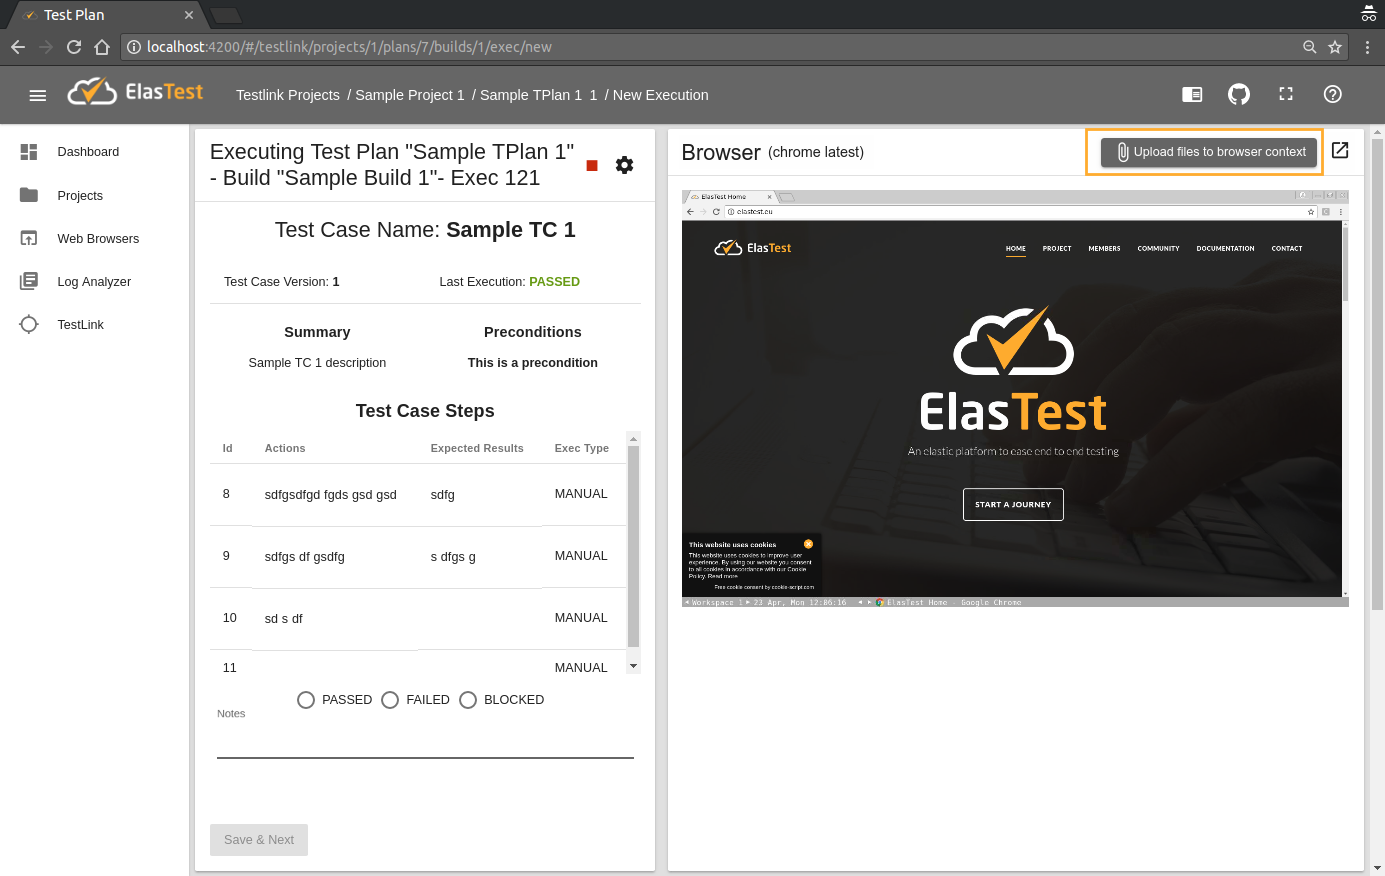
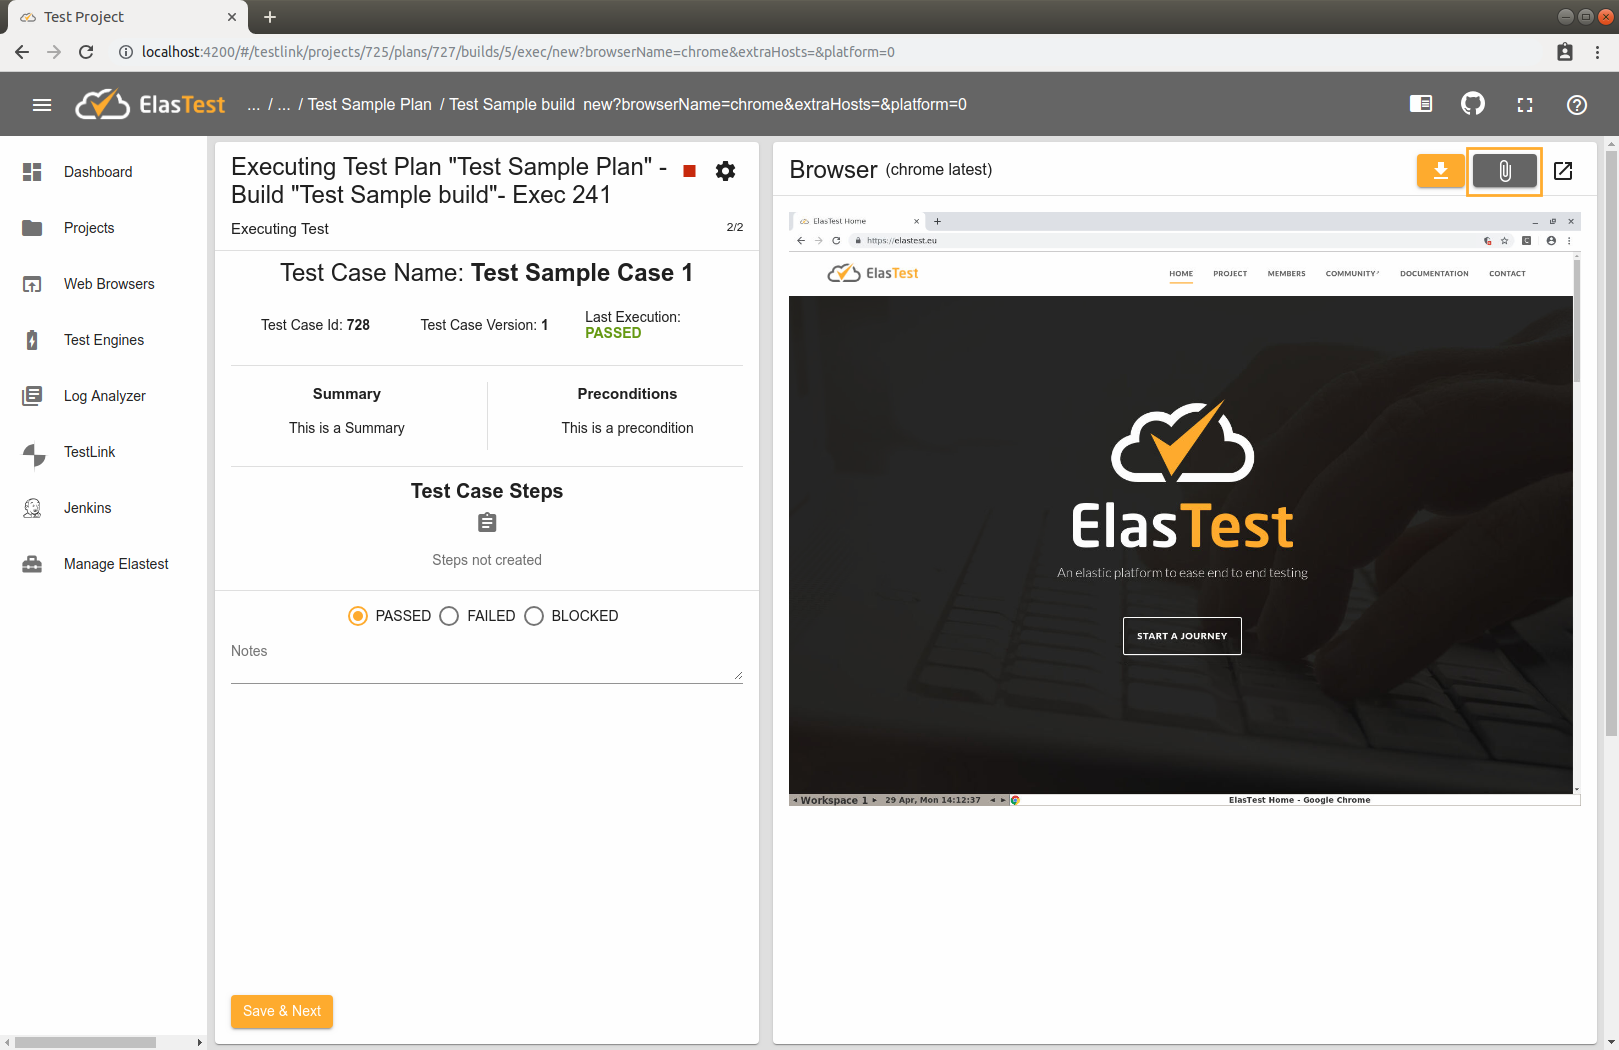
1.5.0 version

diff --git a/docs/releases/index.md b/docs/releases/index.md
@@ -4,6 +4,27 @@
 </div>
 </div>
 
+<!-- ************************* -->
+<!-- ********* 1.5.0 ********* -->
+<!-- ************************* -->
+
+<h3 id="1.5.0" class="small-subtitle">1.5.0</h3>
+<h4 class="smaller-subtitle">29/04/2019</h4>
+
+<h5 class="smaller-subtitle">Features & Improvements</h5>
+
+-   Added a button to **`download files`** from the browser context during a <a target="_blank" href="/docs/testlink">TestLink</a> Test Plan Execution.
+-   Now you can select one or more <a target="_blank" href="/docs/testing/sut">Suts</a> and **`delete them all at once`**.
+-   It is now possible to **`activate/deactivate the All-In-One chart`** from the **Monitoring Configuration** modal window.
+-   Now when configuring in a <a target="_blank" href="/docs/jenkins">Jenkins</a> job the **maximum number of builds to keep**, this number will be synchronized with the **`maximum number of executions in ElasTest`**.
+
+<h5 class="smaller-subtitle">Bug Fixes</h5>
+
+-   Now, in <a target="_blank" href="/docs/jenkins">ElasTest Jenkins Plugin</a>, the **log traces** are sent to ElasTest with the **`timestamp`**, thus solving the problem of incorrect dates.
+-   Fixed a bug on the page of a <a target="_blank" href="/docs/testlink">TestLink</a> **Test Case Execution** that brokes the GUI.
+-   Now when a **test suite** has all its tests skipped, the **`suite is also shown as skipped`** and not as success.
+-   Fixed a bug in the modal window of an execution of a **TJob with parameters** that, when removing all parameters, the **`button to add more parameters disappeared`**.
+-   Fixed a bug in <a target="_blank" href="/docs/#modes">singlenode mode</a>: The **Delete red indices** button was **`always disabled`** and could not be pressed even if there were red indices.
 
 <!-- ************************* -->
 <!-- ********* 1.4.1 ********* -->
@@ -29,7 +50,7 @@
 -   <a target="_blank" href="/docs/web-browsers/e2e-browser">Browsers started by a TJob</a> run now have a **fixed name**, allowing you to compare browser logs between different **executions**.
 -   It is now possible to <strong class="italicEtColor">upload files</strong> to a **browser** and also <strong class="italicEtColor">download</strong> them.
 -   A button has been added to **`upload files to the browser context`** on the <a target="_blank" href="/docs/testlink">TestLink</a> Test Plan **execution** page.
--   It is possible to **attach evidence files** to the executions by means of an api that the TJob receives in an <a target="_blank" href="/docs/testing/environment-variables/">environment variable</a> (*ET_ETM_TJOB_ATTACHMENT_API*).
+-   It is possible to **attach evidence files** to the executions by means of an api that the TJob receives in an <a target="_blank" href="/docs/testing/environment-variables/">environment variable</a> (_ET_ETM_TJOB_ATTACHMENT_API_).
 -   The **`View in loganalyzer`** button has been added to the section of a **specific Test Case**.
 
 <h5 class="smaller-subtitle">Bug Fixes</h5>
@@ -72,7 +93,7 @@
         -   The **`spinner`** is **not shown** when **new information** is obtained.
         -   Now the **executions** loaded at the beginning are **`not reloaded again`**.
     -   Now in the section of a <strong class="italicEtColor">specific TJob</strong> the **`executions are paginated`**.
--   A **new section** has been added: **`Manage Elastest`**. Here you can view the status, the general info and the logs of the containers of the core components of ElasTest, as well as the version that is being used. In <a target="_blank" href="/docs/#modes">singlenode mode</a> you can also manage Elasticsearch indices
+-   A **new section** has been added: **`Manage Elastest`**. Here you can view the status, the general info and the logs of the <a target="_blank" href="/docs/manage-elastest/monitoring-containers">containers</a> of the core components of ElasTest, as well as the version that is being used. In <a target="_blank" href="/docs/#modes">singlenode mode</a> you can also <a target="_blank" href="/docs/manage-elastest/manage-elasticsearch">manage Elasticsearch indices</a>
 -   For <a target="_blank" href="/docs/testing/sut/#outsideExternalES">Sut with external Elasticsearch</a>, the user is now allowed to indicate a **`list of fields`** with a **list of values** by which to **filter** to save the traces.
 -   <a target="_blank" href="/docs/monitoring">Monitoring traces</a> are now removed when deleting a **TJobExecution, TJob, Sut, SutExecution or Project** (the entire index in Elasticsearch for <a target="_blank" href="/docs/#modes">singlenode mode</a> OR the data in Mysql for <a target="_blank" href="/docs/#modes">mini mode</a>)
 -   **Elasticsearch** has been updated to version <a target="_blank" href="https://www.elastic.co/guide/en/elasticsearch/reference/current/release-notes-6.6.1.html">6.6.1</a> (for <a target="_blank" href="/docs/#modes">singlenode mode</a>)

diff --git a/docs/testlink/index.md b/docs/testlink/index.md
@@ -70,12 +70,12 @@ On the other hand, you can run the test plan clicking the "Execute Test Plan" bu
 -   **Select Browser and it's version**.
 -   **Select a Platform**.
 -   **Configure a hosts list** to put them in the browser container **/etc/hosts**.
-<p></p>
-<div class="docs-gallery inline-block">
-    <a data-fancybox="gallery-4" href="/docs/testlink/images/execute_plan_modal.png"><img class="img-responsive img-wellcome" src="/docs/testlink/images/execute_plan_modal.png"/></a>
-</div>
+    <p></p>
+    <div class="docs-gallery inline-block">
+        <a data-fancybox="gallery-4" href="/docs/testlink/images/execute_plan_modal.png"><img class="img-responsive img-wellcome" src="/docs/testlink/images/execute_plan_modal.png"/></a>
+    </div>
 
-Once the configuration has been selected and the *Run test plan button* has been pressed, you must wait a few seconds until the browser loads. After that, you can see the Test Plan information on the left and a web browser on the right. On the bottom, you will can see all the logs of your test.
+Once the configuration has been selected and the _Run test plan button_ has been pressed, you must wait a few seconds until the browser loads. After that, you can see the Test Plan information on the left and a web browser on the right. On the bottom, you will can see all the logs of your test.
 
 <div class="docs-gallery inline-block">
     <a data-fancybox="gallery-4" href="/docs/testlink/images/testplan_execute.png"><img class="img-responsive img-wellcome" src="/docs/testlink/images/testplan_execute.png"/></a>
@@ -83,13 +83,27 @@ Once the configuration has been selected and the *Run test plan button* has been
 
 If you have **`associated a Sut`** to the Test Plan, you must wait until the Sut is ready to be used, then the browser will start as indicated in the previous paragraph and the url of the Sut will be loaded in that browser to test.
 
-If you need to **`attach files`** you have on your machine to your browser, you can add them to the browser context by using the **Upload files to browser context** button. You can select more than one file at a time. Once uploaded to the browser context, you can find them in */home/ubuntu/et_shared_files*.
+If you need to **`attach files`** you have on your machine to your browser, you can add them to the browser context by using the **Upload files to browser context** button. You can select more than one file at a time. Once uploaded to the browser context, you can find them in _/home/ubuntu/et_shared_files_.
 
 <div class="docs-gallery inline-block">
     <a data-fancybox="gallery-4" href="/docs/testlink/images/testplan_execute_uploadfile.png"><img class="img-responsive img-wellcome" src="/docs/testlink/images/testplan_execute_uploadfile.png"/></a>
 </div>
 
-When your test is finished, you must fill the fields for each Test Case and click **Save & Next** button.
+It is also possible to **`obtain a file`** from the context of the browser, making use of the **Download file from browser context** button.
+
+<div class="docs-gallery inline-block">
+    <a data-fancybox="gallery-4" href="/docs/testlink/images/download_file_btn.png"><img class="img-responsive img-wellcome" src="/docs/testlink/images/download_file_btn.png"/></a>
+</div>
+
+Clicking will open a **modal window** where we can enter the **`full path`** where the file is within the context of the browser:
+
+<div class="docs-gallery inline-block">
+    <a data-fancybox="gallery-4" href="/docs/testlink/images/download_file_path.png"><img class="img-responsive img-wellcome" src="/docs/testlink/images/download_file_path.png"/></a>
+</div>
+
+Once the route has been entered, just click on the DOWNLOAD button and the file will be downloaded. 
+
+To run Test Cases, you must fill the fields for each and click Save & Next button.
 
 <h5 class="small-subtitle">TestLink Test Plan Execution Result</h5>
 

diff --git a/docs/elastest-monitoring/index.md b/docs/elastest-monitoring/index.md
@@ -11,7 +11,6 @@ ElasTest is able to monitor the health of various of its components. Monitoring 
 -   **Resource usage**: Monitors CPU, memory and other component metrics.
 -   **Component containers**: Monitors docker status and logs.
 
-
 <h3 class="holder-subtitle link-top">Resources usage</h3>
 
 ElasTest is able to monitor the health of various of its componets and allows correlated queries aiding the fault location within the platform in an optimized manner.
@@ -42,32 +41,4 @@ Moreover, if we hover over the plots, we use the mouse pointer to observe the va
 
 <h3 class="holder-subtitle link-top" id="componentContainers">Component containers</h3>
 
-ElasTest also provides in its GUI a section to visualize the **`status`**, the **`general info`** and the **`logs`** of the containers of the **core components** of ElasTest, as well as the version that is being used. You can access this section by clicking on the button with interrogation icon (?) or from the **Manage Elastest** section:
-
-<div class="docs-gallery inline-block">
-    <a data-fancybox="gallery-1" href="/docs/elastest-monitoring/images/help_button.png"><img class="img-responsive img-wellcome" src="/docs/elastest-monitoring/images/help_button.png"/></a>
-</div>
-
-This section looks like this:
-
-<div class="docs-gallery inline-block">
-    <a data-fancybox="gallery-1" href="/docs/elastest-monitoring/images/help_page.png"><img class="img-responsive img-wellcome" src="/docs/elastest-monitoring/images/help_page.png"/></a>
-</div>
-
-It has two buttons on the top right: the first to manually refresh the information and the second to activate or deactivate the autorefresh of this information.
-
-<div class="docs-gallery inline-block">
-    <a data-fancybox="gallery-1" href="/docs/elastest-monitoring/images/help_page_upper_buttons.png"><img class="img-responsive img-wellcome" src="/docs/elastest-monitoring/images/help_page_upper_buttons.png"/></a>
-</div>
-
-If you click on the "view logs" button, the last logs of that container will be loaded at the bottom of the page:
-
-<div class="docs-gallery inline-block">
-    <a data-fancybox="gallery-1" href="/docs/elastest-monitoring/images/help_page_etm_logs.png"><img class="img-responsive img-wellcome" src="/docs/elastest-monitoring/images/help_page_etm_logs.png"/></a>
-</div>
-
-Clicking on the "load previous" button will load all the logs of that container:
-
-<div class="docs-gallery inline-block">
-    <a data-fancybox="gallery-1" href="/docs/elastest-monitoring/images/help_page_etm_logs_load_more.png"><img class="img-responsive img-wellcome" src="/docs/elastest-monitoring/images/help_page_etm_logs_load_more.png"/></a>
-</div>
+View <a href="/docs/manage-elastest/monitoring-containers/"> Monitoring Containers </a> section (into Manage ElasTest)

diff --git a/docs/manage-elastest/monitoring-containers.md b/docs/manage-elastest/monitoring-containers.md
@@ -1,0 +1,44 @@
+<div class="range range-xs-left">
+<div class="cell-xs-10 cell-lg-6 text-md-left inset-md-right-80 cell-lg-push-1 offset-top-50 offset-lg-top-0">
+<h2 id="content" class="h1">Monitoring ElasTest Containers</h2>
+<div class="offset-top-30 offset-md-top-30">
+</div>
+</div>
+</div>
+
+ElasTest also provides in its GUI a section to visualize the **`status`**, the **`general info`** and the **`logs`** of the containers of the **core components** of ElasTest, as well as the version that is being used. You can access this section navigating to **Manage Elastest** section:
+
+<div class="docs-gallery inline-block">
+    <a data-fancybox="gallery-1" href="/docs/manage-elastest/images/manage_elastest_btn.png"><img class="img-responsive img-wellcome" src="/docs/manage-elastest/images/manage_elastest_btn.png"/></a>
+</div>
+
+This section looks like this:
+
+<div class="docs-gallery inline-block">
+    <a data-fancybox="gallery-1" href="/docs/manage-elastest/images/monitoring-containers/02.png"><img class="img-responsive img-wellcome" src="/docs/manage-elastest/images/monitoring-containers/02.png"/></a>
+</div>
+
+It has two buttons on the top right: the first to manually refresh the information and the second to activate or deactivate the autorefresh of this information.
+
+<div class="docs-gallery inline-block">
+    <a data-fancybox="gallery-1" href="/docs/manage-elastest/images/monitoring-containers/03.png"><img class="img-responsive img-wellcome" src="/docs/manage-elastest/images/monitoring-containers/03.png"/></a>
+</div>
+
+If you click on the "view logs" button, the last logs of that container will be loaded at the bottom of the page:
+
+<div class="docs-gallery inline-block">
+    <a data-fancybox="gallery-1" href="/docs/manage-elastest/images/monitoring-containers/04.png"><img class="img-responsive img-wellcome" src="/docs/manage-elastest/images/monitoring-containers/04.png"/></a>
+</div>
+
+Clicking on the "load previous" button will load all the logs of that container:
+
+<div class="docs-gallery inline-block">
+    <a data-fancybox="gallery-1" href="/docs/manage-elastest/images/monitoring-containers/05.png"><img class="img-responsive img-wellcome" src="/docs/manage-elastest/images/monitoring-containers/05.png"/></a>
+</div>
+
+In addition, you can also download it as a .log file by clicking on the button:
+
+<div class="docs-gallery inline-block">
+    <a data-fancybox="gallery-1" href="/docs/manage-elastest/images/monitoring-containers/06.png"><img class="img-responsive img-wellcome" src="/docs/manage-elastest/images/monitoring-containers/06.png"/></a>
+</div>
+

diff --git a/docs/jenkins/freestyle.md b/docs/jenkins/freestyle.md
@@ -6,7 +6,6 @@
 </div>
 </div>
 
-
 As mentioned above, the ElasTest plugin can also be used from a freestyle project, although at the moment it only offers some basic functionalities:
 
 -   Send the logs generated during the build of a Job to ElasTest
@@ -30,4 +29,15 @@ After we run the Freestyle Job, we can check the results in both platforms, **Je
 <div class="docs-gallery inline-block">
     <a data-fancybox="gallery-4" href="/docs/jenkins/images/jenkins_log.png"><img class="img-responsive img-wellcome" src="/docs/jenkins/images/jenkins_log.png"/></a>
     <a data-fancybox="gallery-4" href="/docs/jenkins/images/elastest_log.png"><img class="img-responsive img-wellcome" src="/docs/jenkins/images/elastest_log.png"/></a>
+</div>
+
+<!-- ************************************** -->
+<!-- ************ Limit Builds ************ -->
+<!-- ************************************** -->
+
+<h3 id="limitBuilds" class="holder-subtitle link-top">Setting max nº of builds</h3>
+If in your Jenkins job you check the **Discard old builds** option and set a value for **Max # of builds to keep**, it will also be set in ElasTest, saving only the last N runs.
+
+<div class="docs-gallery inline-block">
+    <a data-fancybox="gallery-2" href="/docs/jenkins/images/pipeline/max_builds.png"><img class="img-responsive img-wellcome" src="/docs/jenkins/images/pipeline/max_builds.png"/></a>
 </div>

diff --git a/docs/manage-elastest/manage-elasticsearch.md b/docs/manage-elastest/manage-elasticsearch.md
@@ -1,0 +1,13 @@
+<div class="range range-xs-left">
+<div class="cell-xs-10 cell-lg-6 text-md-left inset-md-right-80 cell-lg-push-1 offset-top-50 offset-lg-top-0">
+<h2 id="content" class="h1">Manage Elasticsearch (Only for singlenode mode)</h2>
+<div class="offset-top-30 offset-md-top-30">
+</div>
+</div>
+</div>
+
+In <a href="/docs/#modes">ElasTest singlenode mode</a>, Elasticsearch is used to store the monitoring information of the executions. In the **Manage Elasticsearch** section all Elasticsearch indexes can be displayed, as well as indexes that have a **red state**. When there are indexes in this state, Elasticsearch gives problems and ElasTest cannot load logs and metrics of the executions, so it is **necessary to remove** these indexes. To do this you would have to press the **Delete Red Indices** button.
+
+<div class="docs-gallery inline-block">
+    <a data-fancybox="gallery-1" href="/docs/manage-elastest/images/red-indices.png"><img class="img-responsive img-wellcome" src="/docs/manage-elastest/images/manage-elasticsearch/red-indices.png"/></a>
+</div>

diff --git a/docs/jenkins/pipeline.md b/docs/jenkins/pipeline.md
@@ -524,6 +524,17 @@ Thanks to this option, ElasTest will be in charge of **managing the browsers**, 
 
 
 <!-- ************************************** -->
+<!-- ************ Limit Builds ************ -->
+<!-- ************************************** -->
+
+<h3 id="limitBuilds" class="holder-subtitle link-top">Setting max nº of builds</h3>
+If in your Jenkins job you check the **Discard old builds** option and set a value for **Max # of builds to keep**, it will also be set in ElasTest, saving only the last N runs.
+
+<div class="docs-gallery inline-block">
+    <a data-fancybox="gallery-2" href="/docs/jenkins/images/pipeline/max_builds.png"><img class="img-responsive img-wellcome" src="/docs/jenkins/images/pipeline/max_builds.png"/></a>
+</div>
+
+<!-- ************************************** -->
 <!-- ************ Known Issues ************ -->
 <!-- ************************************** -->
 
